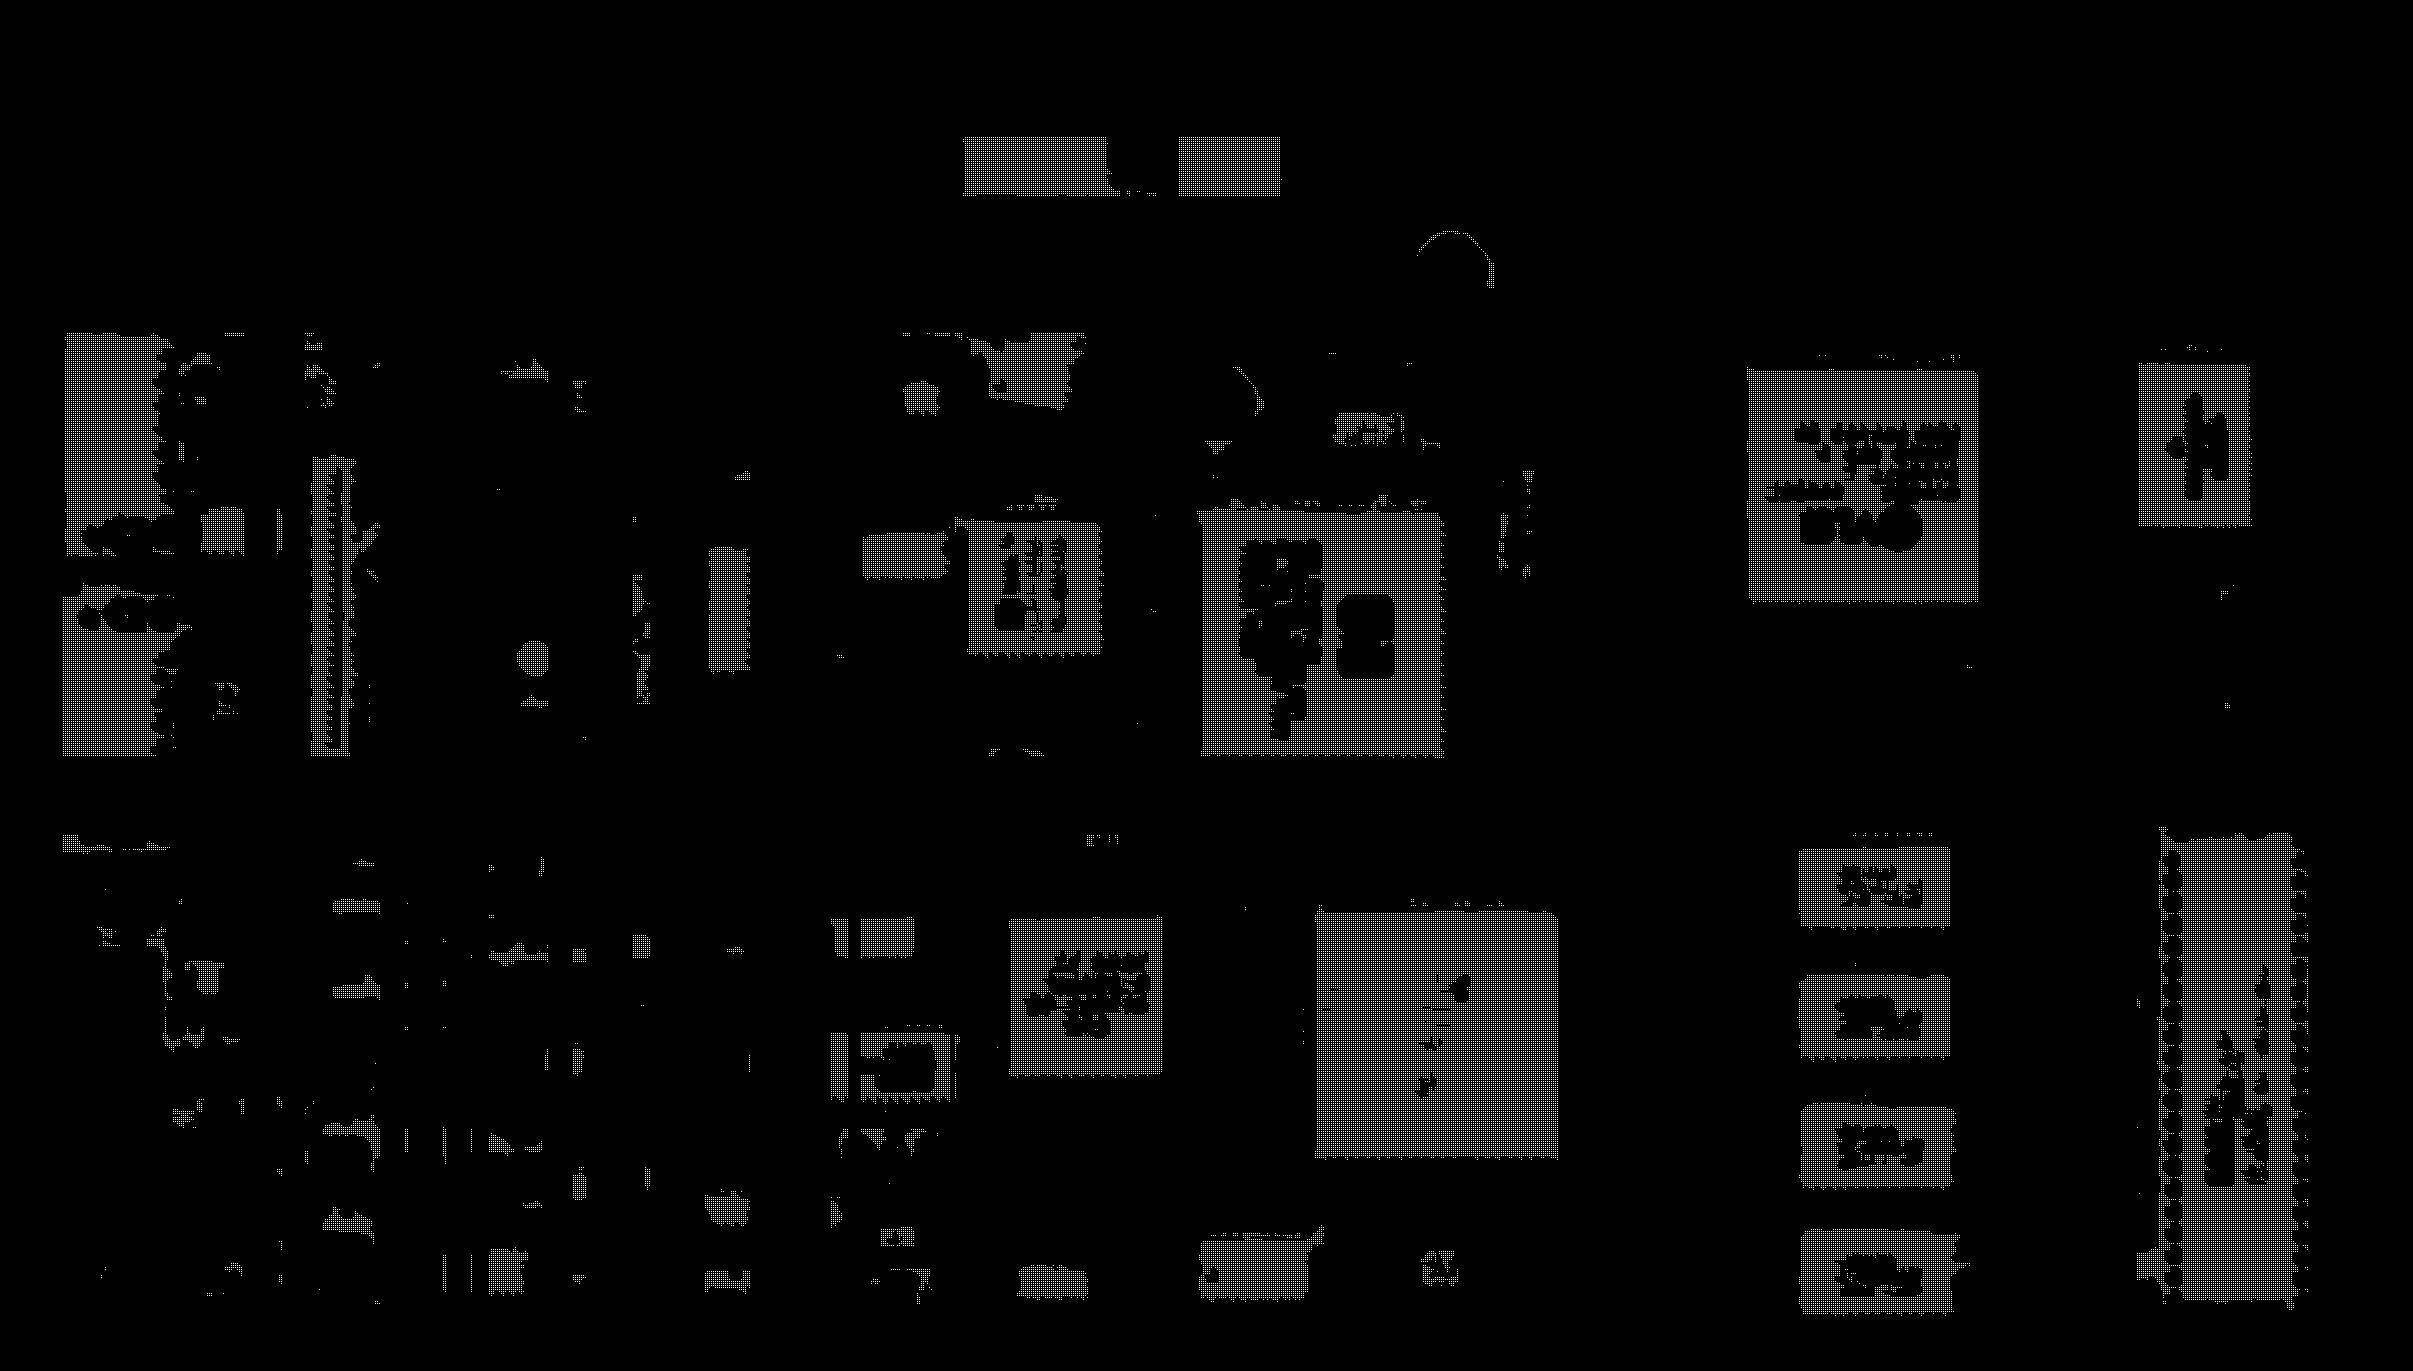
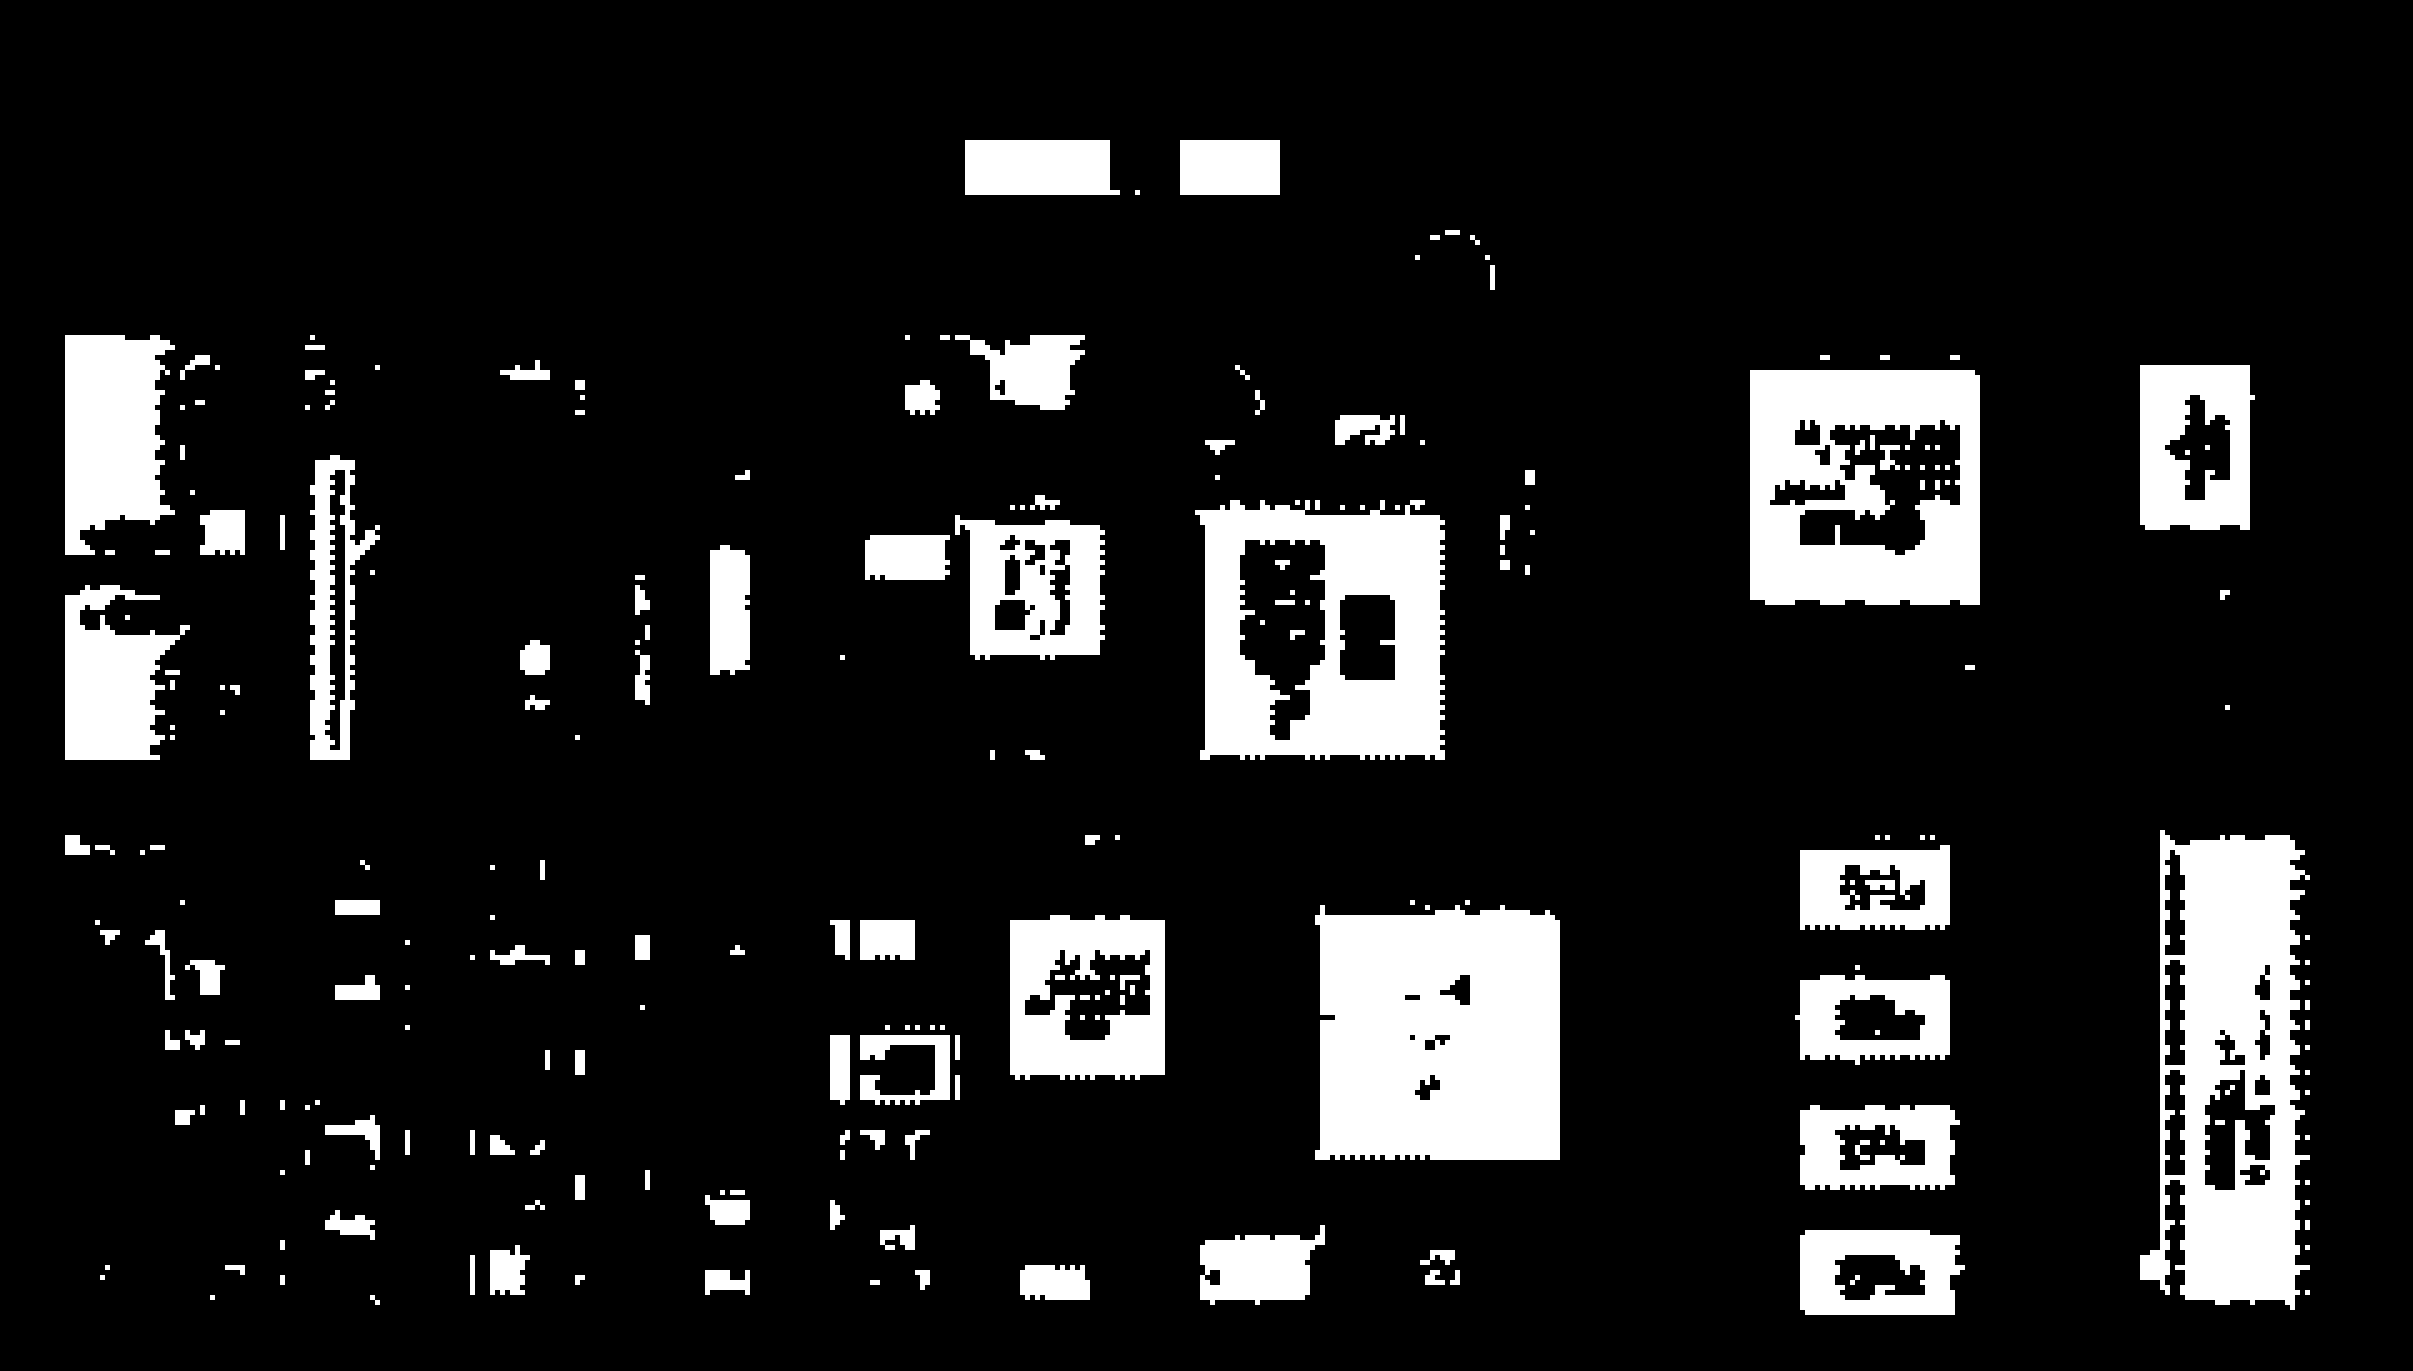
Almost success!

diff --git a/B657HW1B/detect.cpp b/B657HW1B/detect.cpp
@@ -387,44 +387,70 @@ vector<DetectedBox> mark_win(_DTwoDimArray<bool> &input, int win_size) {
 		for (int j = 0; j < grid_ncol; ++j) {
 			int col = col_start + j * win_size;
 			if (input[row][col] && grid_unused[i][j]) {  // If a window beginning at (row, col) is marked as true
-				int score, score_tol = 2;
-				// Check rows below
-				int box_curr_row = i + 1, row_curr = row + win_size, last_row = row;
+				int score, score_tol = 2;  // Do not move score_tol outside of inner loop. Value changes inside loop
+				// Check windows below along one column: col + win_size * slide_right
+				int i_curr = i + 1, row_curr = row + win_size, last_row = row;
+				int slide_right = 1;  // Checking the column this number to the right
+				int col_to_check = col + win_size * slide_right, j_to_check = j + slide_right;
 				score = 0;
 				while (row_curr < row_end && score <= score_tol) {
-					if (!input[row_curr][col + win_size] || !grid_unused[box_curr_row][j + 1])  // If a window is false or used
+					if (!input[row_curr][col_to_check] || !grid_unused[i_curr][j_to_check])  // If a window is false or used.
 						++score;
 					else  // If a window is true
 						last_row = row_curr;
-					row_curr += win_size;
-					++box_curr_row;
+					row_curr += win_size; ++i_curr;
 				}
 
-				// Check cols to the right
-				int box_curr_col = j + 1, col_curr = col + win_size, last_col = col;
+				// Check windows to the right along one row: row + win_size * slide_down
+				int j_curr = j + 1, col_curr = col + win_size, last_col = col;
+				int slide_down = 2;  // Checking the row this number below
+				int row_to_check = row + win_size * slide_down, i_to_check = i + slide_down;
 				score = 0;
 				while (col_curr < col_end && score <= score_tol) {
-					if (!input[row + win_size][col_curr] || !grid_unused[i + 1][box_curr_col])
+					if (!input[row_to_check][col_curr] || !grid_unused[i_to_check][j_curr])
 						++score;
 					else
 						last_col = col_curr;
 					col_curr += win_size;
-					++box_curr_col;
+					++j_curr;
 				}
 
-				DetectedBox box;
-				box.row = row - win_size;
-				box.col = col - win_size;
-				box.height = last_row - row + 2 * win_size;
-				box.width = last_col - col + 2 * win_size;
-				box.confidence = 1;
-				ans.push_back(box);
+				// Check windows to the left along one row: row + win_size * slide_down
+				int first_col = col;
+				j_curr = j - 1, col_curr = col - win_size;
+				slide_down = 1;  // Checking the row this number below
+				row_to_check = row + win_size * slide_down;
+				i_to_check = i + slide_down;
+				score = 0;
+				// score_tol = 1;
+				while (col_curr > col_start && score <= score_tol) {
+					if (!input[row_to_check][col_curr] || !grid_unused[i_to_check][j_curr])
+						++score;
+					else
+						first_col = col_curr;
+					col_curr -= win_size;
+					--j_curr;
+				}
 
-				int last_box_index_row = (last_row - row_start) / win_size + 1,
-						last_box_index_col = (last_col - col_start) / win_size + 1;
-				for (int ii = i; ii <= last_box_index_row; ++ii)
-					for (int jj = j; jj <= last_box_index_col; ++jj)
-						grid_unused[ii][jj] = false;
+				int box_height = last_row - row + 2 * win_size,
+						box_width = last_col - first_col + 2 * win_size;
+				int area_tol = 1 / 400. * input.rows() * input.cols();
+				if (box_height * box_width > area_tol && box_height < 3 * box_width && box_width < 3 * box_height) {
+					DetectedBox box;
+					box.row = row - win_size;
+					box.col = first_col - win_size;
+					box.height = box_height;
+					box.width = box_width;
+					box.confidence = 1;
+					ans.push_back(box);
+
+					int last_box_index_row = (last_row - row_start) / win_size + 1,
+							last_box_index_col = (last_col - col_start) / win_size + 1,
+							first_box_index_col = (first_col - col_start) / win_size + 1;
+					for (int ii = i - 1; ii <= last_box_index_row + 1; ++ii)
+						for (int jj = first_box_index_col - 1; jj <= last_box_index_col + 1; ++jj)
+							grid_unused[ii][jj] = false;
+				}
 			}
 		}
 	}
